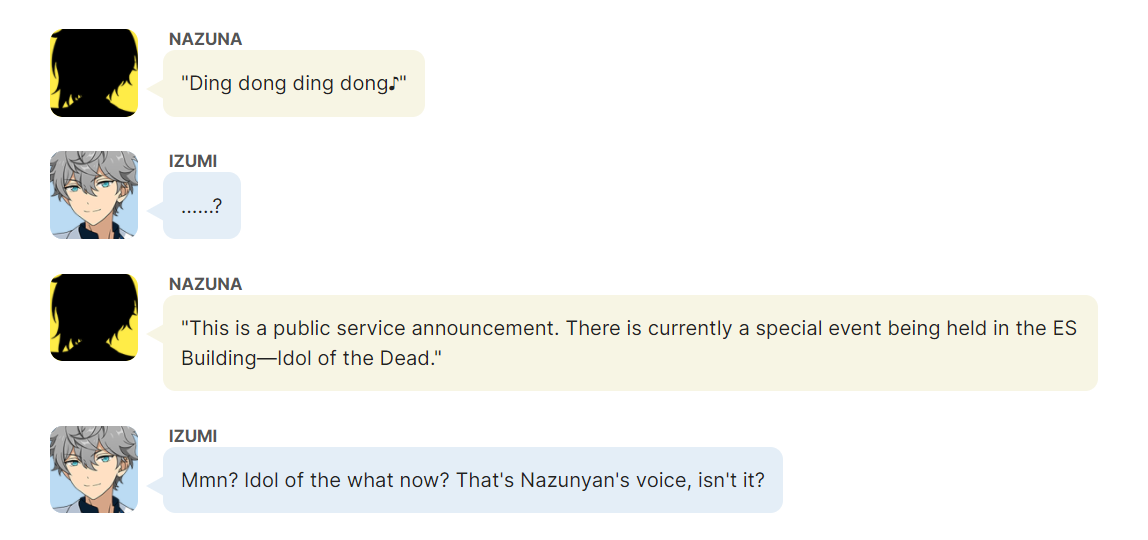
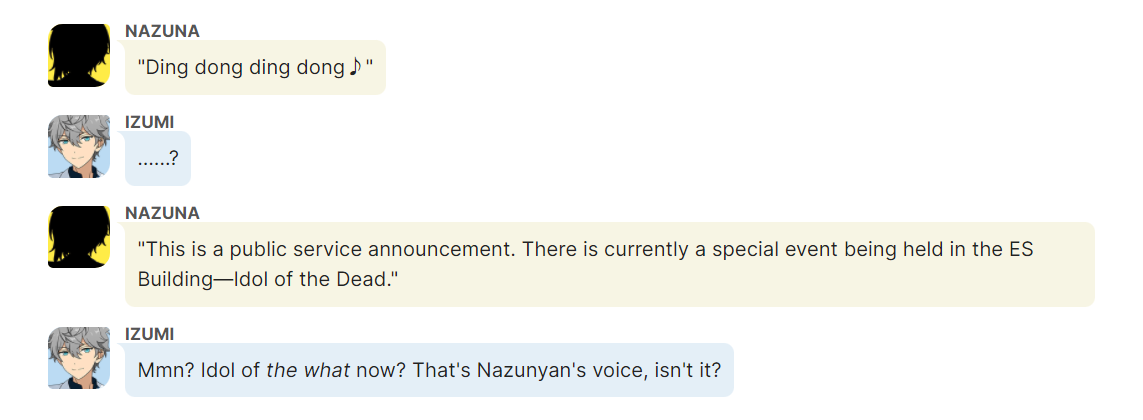
fix cgss css, improve bubble

Changed region(s): [[0.0306, 0.2476, 0.9799, 0.7429], [0.0306, 0.7738, 0.7043, 0.9595], [0.0306, 0.031, 0.3675, 0.2476]]

diff --git a/src/css/bubble.min.css b/src/css/bubble.min.css
@@ -1,1 +1,1 @@
-:root{--msr-icon-border:12px 4px;--msr-icon-size:50px;--msr-icon-size__small:45px;--msr-name-case:uppercase;--msr-line-border:8px;--msr-line-size:1em}.msr-unit{display:grid;grid-template-columns:auto 1fr;column-gap:12px;row-gap:1px;margin-bottom:1em;font-size:1em;--light-mode:hsl(var(--hue),54%,93%);--dark-mode:hsl(var(--hue),12%,25%);--fill-mode:hsl(var(--hue),30%,45%)}.msr-unit *{transition:all 0.2s ease}.msr-icon{grid-row:.3333333333}.msr-icon__wrapper{border-radius:var(--msr-icon-border);position:relative;overflow:hidden;width:var(--msr-icon-size);height:var(--msr-icon-size)}.msr-icon__base{display:block;background:100% / 100% var(--icon,url(https://cdn.jsdelivr.net/gh/enstars/img/icon/unknown.png)),var(--color,#b3b3b3);width:100%;height:100%}.msr-name{font-size:.85em;line-height:1;font-weight:700;text-transform:var(--msr-name-case)}.msr-name::before{content:var(--name,"???")}.msr-line{display:flex;flex-direction:column;grid-column:2;row-gap:5px}.msr-line p{align-self:flex-start;font-size:var(--msr-line-size);background:var(--light-mode,#f1f1f1);color:#222;padding:.6em;margin:0;border-radius:var(--msr-line-border);position:relative;filter:var(--msr-line-filter,0)}.msr-line p:hover{transform:translate(2px,0)}.msr-line p:first-child{border-top-left-radius:0}.msr-line p:first-child::before{background:transparent;content:"";position:absolute;left:-30px;top:0;height:10px;width:30px;border-top-right-radius:25px;box-shadow:23px 0 0 0 var(--light-mode,#f1f1f1)}[unknown] .msr-icon__base{background:#b3b3b3}[unknown] .msr-icon__wrapper::after{content:"";display:block;position:absolute;background:#000;-webkit-mask-image:var(--icon,url(https://cdn.jsdelivr.net/gh/enstars/img/icon/unknown.png));-webkit-mask-size:100%;-webkit-mask-position:100%;mask-image:var(--icon,url(https://cdn.jsdelivr.net/gh/enstars/img/icon/unknown.png));mask-size:100%;mask-position:100%;top:0;width:100%;height:100%}[unknown] .msr-name::before{content:"???"}[unknown] .msr-line p{background:#f1f1f1}[unknown] .msr-line p:first-child::before{box-shadow:20px 0 0 0 #f1f1f1}[hidden] .msr-icon__wrapper::after{content:"";display:block;position:absolute;background:#000;-webkit-mask-image:var(--icon,url(https://cdn.jsdelivr.net/gh/enstars/img/icon/unknown.png));-webkit-mask-size:100%;-webkit-mask-position:100%;mask-image:var(--icon,url(https://cdn.jsdelivr.net/gh/enstars/img/icon/unknown.png));mask-size:100%;mask-position:100%;top:0;width:100%;height:100%}.hold{display:inline-block}.thought{color:#5555c0}.spell{font-family:"Almendra",serif;letter-spacing:.015em;font-size:1.1em;line-height:1.3}[character].dark .msr-line p{background:var(--dark-mode,#0e0e0e);color:#eee}[character].dark .msr-line p:first-child::before{box-shadow:20px 0 0 0 var(--dark-mode,#0e0e0e)}[character].dark .msr-line[unknown] p{background:#0e0e0e}[character].dark .msr-line[unknown]:first-child::before{box-shadow:20px 0 0 0 #0e0e0e}.dark .thought{color:#d4d4fa}[character].fill .msr-line p{background:var(--fill-mode,#737373);color:#fff}[character].fill .msr-line p:first-child::before{box-shadow:20px 0 0 0 var(--fill-mode,#737373)}[character].fill .msr-line[unknown] p{background:#737373}[character].fill .msr-line[unknown]:first-child::before{box-shadow:20px 0 0 0 #737373}.fill .thought{color:#e9efff}[character].smallest .msr-line p{font-size:.8em}[character].smaller .msr-line p{font-size:.9em}[character].bigger .msr-line p{font-size:1.1em}[character].biggest .msr-line p{font-size:1.2em}@media (min-width:1200px){.spell{font-size:1.15em}}@media (max-width:650px){.msr-unit{margin-bottom:.85em}.msr-icon__wrapper{width:var(--msr-icon-size__small);height:var(--msr-icon-size__small)}.msr-line{row-gap:3px}}
+:root {--msr-unit-margin: 1.2em;--msr-icon-border: 12px 4px;--msr-icon-size: 50px;--msr-icon-size__small: 45px;--msr-name-case: uppercase;--msr-line-border: 8px;--msr-line-size: 1em;}[character] {--light-mode: hsl(var(--hue), 54%, 93%);--dark-mode: hsl(var(--hue), 12%, 25%);--fill-mode: hsl(var(--hue), 30%, 45%);}.msr-unit {display: grid;grid-template-columns: auto 1fr;column-gap: 12px;row-gap: 1px;margin-bottom: var(--msr-unit-margin);font-size: 1em;}.msr-unit p, .msr-line p:first-child::before, .msr-icon__wrapper, .msr-icon__base {transition: all 0.2s ease;}.msr-icon {grid-row: 1/3;}.msr-icon__wrapper {border-radius: var(--msr-icon-border);position: relative;overflow: hidden;width: var(--msr-icon-size);height: var(--msr-icon-size);}.msr-icon__base {display: block;background: 100%/100% var(--icon, url("https://cdn.jsdelivr.net/gh/enstars/img/icon/unknown.png")), var(--color, #b3b3b3);width: 100%;height: 100%;}.msr-name {font-size: 0.85em;line-height: 0.9;font-weight: 700;text-transform: var(--msr-name-case);}.msr-name::before {content: var(--name, "???");}.msr-line {display: flex;flex-direction: column;grid-column: 2;row-gap: 2px;}.msr-line p {align-self: flex-start;font-size: var(--msr-line-size);background: var(--light-mode, #f1f1f1);color: #222;padding: 0.6em;margin: 0;border-radius: var(--msr-line-border);position: relative;filter: var(--msr-line-filter, 0);}.msr-line p:hover {transform: translate(2px, 0px);}.msr-line p:first-child {border-top-left-radius: 0;}.msr-line p:first-child::before {background: transparent;content: "";position: absolute;left: -30px;top: 0px;height: 10px;width: 30px;border-top-right-radius: 25px;box-shadow: 23px 0 0 0 var(--light-mode, #f1f1f1);}.msr-unit p, .msr-line p:first-child::before, .msr-icon__wrapper, .msr-icon__base {transition: all 0.2s ease;}[unknown] .msr-icon__base {background: #b3b3b3;}[unknown] .msr-icon__wrapper::after {content: "";display: block;position: absolute;background: #000;-webkit-mask-image: var(--icon, url("https://cdn.jsdelivr.net/gh/enstars/img/icon/unknown.png"));-webkit-mask-size: 100%;-webkit-mask-position: 100%;mask-image: var(--icon, url("https://cdn.jsdelivr.net/gh/enstars/img/icon/unknown.png"));mask-size: 100%;mask-position: 100%;top: 0;width: 100%;height: 100%;}[unknown] .msr-name::before {content: "???";}[unknown] .msr-line p {background: #f1f1f1;}[unknown] .msr-line p:first-child::before {box-shadow: 20px 0 0 0 #f1f1f1;}[hidden] .msr-icon__wrapper::after {content: "";display: block;position: absolute;background: #000;-webkit-mask-image: var(--icon, url("https://cdn.jsdelivr.net/gh/enstars/img/icon/unknown.png"));-webkit-mask-size: 100%;-webkit-mask-position: 100%;mask-image: var(--icon, url("https://cdn.jsdelivr.net/gh/enstars/img/icon/unknown.png"));mask-size: 100%;mask-position: 100%;top: 0;width: 100%;height: 100%;}.hold {display: inline-block;}.thought {color: #5555c0;}.spell {font-family: "Almendra", serif;letter-spacing: 0.015em;font-size: 1.1em;line-height: 1.3;}[character].dark .msr-line p {background: var(--dark-mode, #0e0e0e);color: #eee;}[character].dark .msr-line p:first-child::before {box-shadow: 20px 0 0 0 var(--dark-mode, #0e0e0e);}[character].dark .msr-line[unknown] p {background: #0e0e0e;}[character].dark .msr-line[unknown]:first-child::before {box-shadow: 20px 0 0 0 #0e0e0e;}.dark .thought {color: #d4d4fa;}[character].fill .msr-line p {background: var(--fill-mode, #737373);color: #fff;}[character].fill .msr-line p:first-child::before {box-shadow: 20px 0 0 0 var(--fill-mode, #737373);}[character].fill .msr-line[unknown] p {background: #737373;}[character].fill .msr-line[unknown]:first-child::before {box-shadow: 20px 0 0 0 #737373;}.fill .thought {color: #e9efff;}[character].smallest .msr-line p {font-size: 0.8em;}[character].smaller .msr-line p {font-size: 0.9em;}[character].bigger .msr-line p {font-size: 1.1em;}[character].biggest .msr-line p {font-size: 1.2em;}@media (min-width: 1200px) {.spell {font-size: 1.15em;}}@media (max-width: 650px) {.msr-unit {margin-bottom: 0.85em;}.msr-icon__wrapper {width: var(--msr-icon-size__small);height: var(--msr-icon-size__small);}}

diff --git a/src/css/bubble.css b/src/css/bubble.css
@@ -1,12 +1,19 @@
 :root {
+    --msr-unit-margin: 1.2em;
     --msr-icon-border: 12px 4px;
     --msr-icon-size: 50px;
     --msr-icon-size__small: 45px;
     --msr-name-case: uppercase;
-    /* --msr-line-filter: drop-shadow(0 1px 1.5px rgba(0, 0, 0, 0.05)) drop-shadow(0 1px 1px rgba(0, 0, 0, 0.06));
-	 */
+    /* --msr-line-filter: drop-shadow(0 1px 1.5px rgba(0, 0, 0, 0.05))
+        drop-shadow(0 1px 1px rgba(0, 0, 0, 0.06)); */
     --msr-line-border: 8px;
     --msr-line-size: 1em;
+}
+
+[character] {
+    --light-mode: hsl(var(--hue), 54%, 93%);
+    --dark-mode: hsl(var(--hue), 12%, 25%);
+    --fill-mode: hsl(var(--hue), 30%, 45%);
 }
 
 .msr-unit {
@@ -14,19 +21,19 @@
     grid-template-columns: auto 1fr;
     column-gap: 12px;
     row-gap: 1px;
-    margin-bottom: 1em;
+    margin-bottom: var(--msr-unit-margin);
     font-size: 1em;
-    --light-mode: hsl(var(--hue), 54%, 93%);
-    --dark-mode: hsl(var(--hue), 12%, 25%);
-    --fill-mode: hsl(var(--hue), 30%, 45%);
 }
 
-.msr-unit * {
+.msr-unit p,
+.msr-line p:first-child::before,
+.msr-icon__wrapper,
+.msr-icon__base {
     transition: all 0.2s ease;
 }
 
 .msr-icon {
-    grid-row: 0.3333333333;
+    grid-row: 1/3;
 }
 
 .msr-icon__wrapper {
@@ -39,19 +46,14 @@
 
 .msr-icon__base {
     display: block;
-    background: 100% / 100%
-            var(
-                --icon,
-                url("https://cdn.jsdelivr.net/gh/enstars/img/icon/unknown.png")
-            ),
-        var(--color, #b3b3b3);
+    background: 100%/100% var(--icon, url("https://cdn.jsdelivr.net/gh/enstars/img/icon/unknown.png")), var(--color, #b3b3b3);
     width: 100%;
     height: 100%;
 }
 
 .msr-name {
     font-size: 0.85em;
-    line-height: 1;
+    line-height: 0.9;
     font-weight: 700;
     text-transform: var(--msr-name-case);
 }
@@ -64,7 +66,7 @@
     display: flex;
     flex-direction: column;
     grid-column: 2;
-    row-gap: 5px;
+    row-gap: 2px;
 }
 
 .msr-line p {
@@ -99,6 +101,13 @@
     box-shadow: 23px 0 0 0 var(--light-mode, #f1f1f1);
 }
 
+.msr-unit p,
+.msr-line p:first-child::before,
+.msr-icon__wrapper,
+.msr-icon__base {
+    transition: all 0.2s ease;
+}
+
 [unknown] .msr-icon__base {
     background: #b3b3b3;
 }
@@ -108,16 +117,10 @@
     display: block;
     position: absolute;
     background: #000;
-    -webkit-mask-image: var(
-        --icon,
-        url("https://cdn.jsdelivr.net/gh/enstars/img/icon/unknown.png")
-    );
+    -webkit-mask-image: var(--icon, url("https://cdn.jsdelivr.net/gh/enstars/img/icon/unknown.png"));
     -webkit-mask-size: 100%;
     -webkit-mask-position: 100%;
-    mask-image: var(
-        --icon,
-        url("https://cdn.jsdelivr.net/gh/enstars/img/icon/unknown.png")
-    );
+    mask-image: var(--icon, url("https://cdn.jsdelivr.net/gh/enstars/img/icon/unknown.png"));
     mask-size: 100%;
     mask-position: 100%;
     top: 0;
@@ -142,16 +145,10 @@
     display: block;
     position: absolute;
     background: #000;
-    -webkit-mask-image: var(
-        --icon,
-        url("https://cdn.jsdelivr.net/gh/enstars/img/icon/unknown.png")
-    );
+    -webkit-mask-image: var(--icon, url("https://cdn.jsdelivr.net/gh/enstars/img/icon/unknown.png"));
     -webkit-mask-size: 100%;
     -webkit-mask-position: 100%;
-    mask-image: var(
-        --icon,
-        url("https://cdn.jsdelivr.net/gh/enstars/img/icon/unknown.png")
-    );
+    mask-image: var(--icon, url("https://cdn.jsdelivr.net/gh/enstars/img/icon/unknown.png"));
     mask-size: 100%;
     mask-position: 100%;
     top: 0;
@@ -242,11 +239,9 @@
     .msr-unit {
         margin-bottom: 0.85em;
     }
+
     .msr-icon__wrapper {
         width: var(--msr-icon-size__small);
         height: var(--msr-icon-size__small);
-    }
-    .msr-line {
-        row-gap: 3px;
     }
 }

diff --git a/src/css/imascg.css b/src/css/imascg.css
@@ -1,29 +1,26 @@
 [character="Akari"] {
     --color: #e71d0f;
-    --light-mode: hsl(4, 54%, 93%);
-    --dark-mode: hsl(4, 12%, 25%);
+    --hue: 4;
     --name: "Akari";
     --icon: url("https://cdn.jsdelivr.net/gh/watatomo/img/icon/imascg/akari.png");
 }
 
 [character="Akira"] {
     --color: #849fbc;
-    --light-mode: hsl(211, 54%, 93%);
-    --dark-mode: hsl(211, 12%, 25%);
+    --hue: 211;
     --name: "Akira";
     --icon: url("https://cdn.jsdelivr.net/gh/watatomo/img/icon/imascg/akira.png");
 }
 
 [character="Riamu"] {
     --color: #e39ed4;
-    --light-mode: hsl(313, 54%, 93%);
-    --dark-mode: hsl(313, 12%, 25%);
+    --hue: 313;
     --name: "Riamu";
     --icon: url("https://cdn.jsdelivr.net/gh/watatomo/img/icon/imascg/riamu.png");
 }
 
 [character="Akari-Akira"] {
-    --name: "Akari & Akira"
+    --name: "Akari & Akira";
     --icon: url("https://cdn.jsdelivr.net/gh/watatomo/img/icon/imascg/akari-akira.png");
 }
 

diff --git a/README.md b/README.md
@@ -1,6 +1,6 @@
 # hexo-bubble
 
-A Hexo tag plugin to format text into chat-like speech bubbles. A work in progress.
+A Hexo tag plugin to format text into chat-like speech bubbles. Uses [Mashiro's](https://github.com/enstars/mashiro) layout.
 
 ## Installation
 
@@ -10,17 +10,22 @@ npm i hexo-bubble --save
 
 ## Usage
 
-Place `<link rel="stylesheet" type="text/css" href="https://cdn.jsdelivr.net/npm/hexo-bubble@latest/src/css/bubble.min.css">` at the *beginning* of your post or *directly under* your `<!-- more -->` if the tag is being used there.
+Place `<link rel="stylesheet" type="text/css" href="https://cdn.jsdelivr.net/npm/hexo-bubble@2.0.0/src/css/bubble.min.css">` at the *beginning* of your post or *directly under* your `<!-- more -->` if the tag is being used there.
+
+Alternatively, you can use this with Mashiro. *(RECOMMENDED)*
+```html
+<script src="https://cdn.jsdelivr.net/gh/enstars/mashiro@latest/dist/mashiro.js"></script>
+```
 
 ### Syntax
 
 ```markdown
 {% bubble [Character] [attribute] %}
-  You can use *Markdown* in the text.
+    You can use *Markdown* in the text.
 
-  <thought>Wrap around thought bubbles with these tags to give the text a blue color!</thought>
+    <th>Wrap around thought bubbles with these tags to give the text a blue color!</th>
 
-  Have special character endings and don't want them to be cut-off by word wrapping? Use these tags to make sure it stays attached to the last <hold>word☆</hold>
+    Have special character endings and don't want them to be cut-off by word wrapping? Use these tags to make sure it stays attached to the last <ho>word☆</ho>
 {% endbubble %}
 ```
 
@@ -41,10 +46,25 @@ It's possible to use your own css for the variables. Just follow the format belo
 
 ```css
 [character="NAME"][attribute] {
-  --color: COLOR;
-  --hue: HUE;
-  --name: "NAME";
-  --icon: url("URL");
+    --color: COLOR;
+    --hue: HUE;
+    --name: "NAME";
+    --icon: url("URL");
+}
+```
+
+The layout itself is also customizable!
+```css
+:root {
+    --msr-unit-margin: 1.2em;
+    --msr-icon-border: 12px 4px;
+    --msr-icon-size: 50px;
+    --msr-icon-size__small: 45px;
+    --msr-name-case: uppercase;
+    /* --msr-line-filter: drop-shadow(0 1px 1.5px rgba(0, 0, 0, 0.05))
+        drop-shadow(0 1px 1px rgba(0, 0, 0, 0.06)); */
+    --msr-line-border: 8px;
+    --msr-line-size: 1em;
 }
 ```
 
@@ -55,15 +75,15 @@ It's possible to use your own css for the variables. Just follow the format belo
 **Input**
 ```markdown
 {% bubble Wataru %}
-  <th>(Haha. Could you be trying to say, "I really like you, Hibiki-senpai! You're so cool! I love you!"...?)</th>
+    <th>(Haha. Could you be trying to say, "I really like you, Hibiki-senpai! You're so cool! I love you!"...?)</th>
 
-  <th>(My, you're far too kind. Thank you, Tomoya<hold>-kun♪</hold> Kiss...☆)</th>
+    <th>(My, you're far too kind. Thank you, Tomoya<ho>-kun♪</ho> *Kiss...*☆)</th>
 {% endbubble %}
 
 {% bubble Tomoya %}
-  <th>(Uhm, I think there's a big misunderstanding here?! What the hell was that weird signal I got back?)</th>
+    <th>(Uhm, I think there's a big misunderstanding here?! What the hell was that weird signal I got back?)</th>
 
-  <th>(Oh, whatever. This signal I sent can only mean one thing! The rest is up to you, Hibiki-senpai!)</th>
+    <th>(Oh, whatever. This signal I sent can only mean one thing! The rest is up to you, Hibiki-senpai!)</th>
 {% endbubble %}
 ```
 
@@ -75,19 +95,19 @@ It's possible to use your own css for the variables. Just follow the format belo
 **Input**
 ```markdown
 {% bubble Nazuna hidden %}
-  "Ding dong ding dong♪"
+    "Ding dong ding dong♪"
 {% endbubble %}
 
 {% bubble Izumi %}
-  ......?
+    ......?
 {% endbubble %}
 
 {% bubble Nazuna hidden %}
-  "This is a public service announcement. There is currently a special event being held in the ES Building—Idol of the Dead."
+    "This is a public service announcement. There is currently a special event being held in the ES Building—Idol of the Dead."
 {% endbubble %}
 
 {% bubble Izumi %}
-  Mmn? Idol of the what now? That's Nazunyan's voice, isn't it?
+    Mmn? Idol of the what now? That's Nazunyan's voice, isn't it?
 {% endbubble %}
 ```
 
@@ -99,17 +119,17 @@ It's possible to use your own css for the variables. Just follow the format belo
 **Input**
 ```markdown
 {% bubble Natsume %}
-  HoweVER. Within a game where everything is proGRAMMED, everything works with much simpler loGIC.
+    HoweVER. Within a game where everything is proGRAMMED, everything works with much simpler loGIC.
 
-  In this world where everything obeys my every comMAND, I will reign as god and control everyTHING. I'll make sure they can live in peace and joy within this miniature <ho>garDEN—</ho>
+    In this world where everything obeys my every comMAND, I will reign as god and control everyTHING. I'll make sure they can live in peace and joy within this miniature <ho>garDEN—</ho>
 
-  And I will give everyone an equal opportunity to experience their own happily ever afTER.
+    And I will give everyone an equal opportunity to experience their own happily ever afTER.
 
-  <sp>—Welcome to paradise, my <ho>idols♪</ho></sp>
+   <sp>—Welcome to paradise, my <ho>idols♪</ho></sp>
 {% endbubble %}
 
 {% bubble Tsumugi %}
-  Um, but, no matter how you look at it, I'm pretty sure this world is a dystopia, right?
+    Um, but, no matter how you look at it, I'm pretty sure this world is a dystopia, right?
 {% endbubble %}
 ```
 
